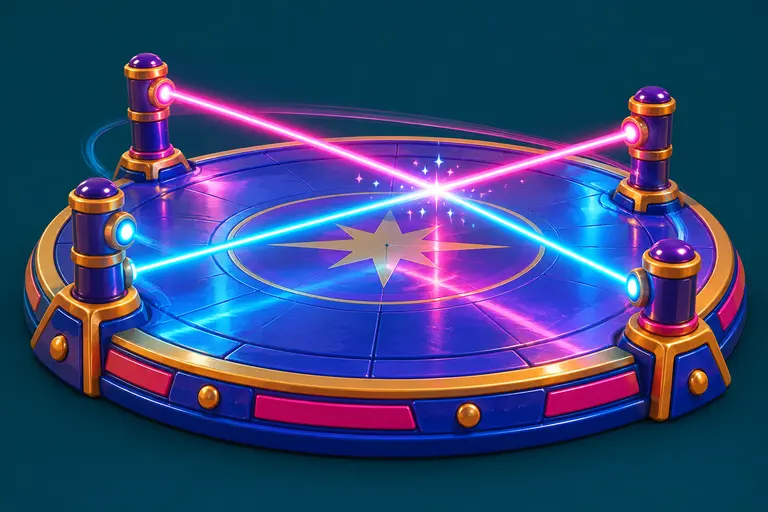
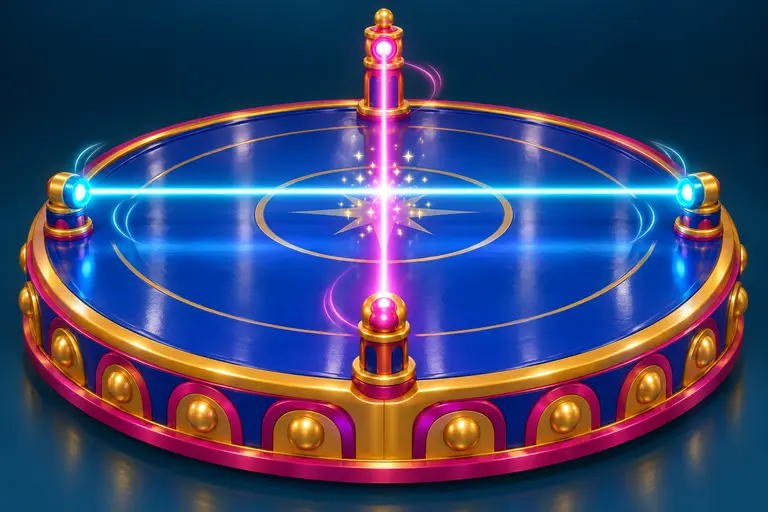
Publish site from stable ae506910 + tinyrts dc3e938c

diff --git a/CLAUDE.md b/CLAUDE.md
@@ -29,6 +29,7 @@ A specific example of "what went wrong" was on 9/17/2026, the agent stopped afte
    * **https for gamepads:** 8442 serves STABLE over https and 8441 serves DEV over https (self-signed cert from `tools/make-dev-cert.sh` in git-ignored `tools/certs/`). Browsers only expose gamepads on secure pages, so give the user the 8442 link when they want to play with a controller; they accept the certificate warning once.
    * `./serve.sh --bg` still exists and serves the working tree on 8400 — do not use it now that the split is in place, or it will take the stable port.
    * **GitHub Pages** (public): https://radgh.github.io/Game-Playground/ — the `gh-pages` branch, built by `tools/publish-pages.sh` from `stable` + TinyRTS's `master` (symlink inlined, tests/research shots left out). After `publish-stable.sh`, run `publish-pages.sh` to update the public site. Never use a path starting with `/` in a page — the site lives under `/Game-Playground/`.
+   * **games.radgh.com** (public, production — `~/claude/docs/rgs.md`): Farhold, Emberveil 2 and Thousandvale are served from that same gh-pages snapshot. After `publish-pages.sh`, run `cd ~/claude/rads-game-server && tools/deploy.sh update playground` (and `update thousandvale` for a Thousandvale release, which restarts the live game server) when Radley wants the public site updated.
 5. **Tests**: Playwright specs in `tests/` (root) or `<experiment>/tests/`, run with `npm test`. Node unit tests (`node --test`) for pure logic.
 6. **When adding an experiment**: create the folder, add ONE ROW to `data/experiments.json` (the home page `index.html` is drawn from it by `js/home.js`; `tests/experiments.test.js` fails if a folder with an `index.html` + `README.md` has no row), add a section to the table below, add a line to `~/claude/docs/playground.md`, add the folder to `ALLOW` in `prototypes/thousandvale/server/static.js` (the Thousandvale game server on 8490/8491 and its public link serve this same home page since 2026-10-13, from that one allow-list; its `tests/H/public-lists.test.js` fails until the folder is there), and write the README. Keep this file's table current.
 7. **Data first**: anything a game would reuse (presets, phrase libraries, part catalogs) goes in JSON or a plain data module, separate from UI code.
@@ -85,7 +86,7 @@ Emberveil uses Chibi 2 humanoids and batched sprites by default; `?renderer=chib
 | `prototypes/lanternfall/` | **Lanternfall** (2026-09-26): side-scrolling pixel action RPG in the drowned chasm-city Vessmere. Falling-sand cell world (9 bytes a cell, 64x64 chunks, sim ~1.6 ms), WebGL2 lights/reflections/bloom, **build-your-own spells** (wick = Flame + Shape + Charms + Knot, compiled to a plan the cells react to), rooms as ASCII block maps + ops + things + wires with a **reachability bot that fails a room** (`tools/room-check.mjs`), 6 seeded room kits, act maps with `@next/@prev/@in` exits, 18 interactables + 10 traps + wiring, 30 monsters, a boss framework (Mother Tallow scripted; bosses 2-6 borrow her script — stand-ins), lamp-post saves (<=64 KB + backup), death purse, Rekindle, plank build mode, skill boards, shops, HUD + 15 menu screens, Lingo/voice/sfx bridges. **Playable title -> ending**: hand-made rooms not in `rooms/index.json` are generated by `standInRoom()` (`js/modes/actmap.js`, `standIn: true`). Pipeline docs in `docs/` (pitch verdict, 10 design pages, ROAST, REVIEW with 39 milestones); **`docs/HANDOFF.md` is the remaining-work list**. `dev/flow.mjs` walks the whole campaign headless | playable 2026-09-26 |
 | `prototypes/wildmarch/` | **Wildmarch** (2026-09-29, round 2 2026-09-30): DESIGN BIBLE ONLY — do not build until the owner approves the docs. An online action RPG with an MMO-style world and a **5-player focus** (only world bosses, towns and trading are bigger), sibling of Farhold (Chibi 2, items/affixes/uniques, perk forest, per-spell talents, voices, Lingo) without space/base-building: one continent, 11 regions banded 1–60, a level/quest feature-unlock ladder, 30 classes × 6 bespoke spells + a signature mechanic, most with a **hybrid role** (mage/warlock/enchanter can tank, pyromancer/necromancer can heal), resources Mana/Momentum/Tempo, **Tab targeting**, 16 five-player dungeons with raid-style telegraphed mechanics on **Normal / Challenge** plus a **Depth** dial, world bosses, **no raids** (parked in `docs/WISHLIST.md`), sockets (gem/jewel/soul/gadget), tags, magic find, special rarities, monster rarities, Harvesting + one crafting profession, Travel Methods, always daylight. `docs/00-OVERVIEW.md` is canon and **§12 holds every round-2 ruling**; `docs/classes/<id>.md` per class; `QUESTIONS.md` open decisions; `WOW-AUDIT.md` is the answered audit. `index.html` is a brainstorm home + Markdown viewer (`js/md.js`, no library); `tools/build-docs-index.mjs` regenerates `docs/index.json` after any doc is added/renamed | docs 2026-09-30 |
 | `prototypes/bannerline/` | **Bannerline** (2026-10-03..04): a sandbox RTS of game MODES over one deterministic lockstep sim (`js/sim/`, purity-scanned, seeded rng, mode registry `js/sim/modes/`). **Line War** (hero lane-wars): 4 races x 12 units, SPAM sends from the Barracks (owner: gold is the only limit — no stock, cooldowns or tier locks; sends leave at once; a full field queues at the gate), 5 Farhold heroes on Chibi 2 (Warrior, Ranger, Pyromancer, Druid with a wolf form, Engineer with 1/2/3 turrets), simple 6-slot stat items bought only standing at the Outfitter (copies each take a slot, rare uniqueEquipped), Drill Yard unit upgrades, Sanctum powers that only land in own/enemy/any field, a Keep that shoots swarms, AI Recruit/Veteran/Commander that differ in decisions, 1v1/2v2/3v3. **Hunters vs Farmers**: generated forest worlds (trails, cliffs, choppable tree walls, briar, hidden hollows), farmers build cookie-clicker style while wandering sheep give them away, hunters search under fog of war, AI both sides. **Campaign** 'Banners of the Vale' (Warrior chapter, 5 missions). Every mode: KB+M and gamepad (ready-up press claims the device; gamepads need the https ports 8442/8441), two-player split screen, online via PeerJS room codes (swappable transport; Cloudflare relay is the upgrade path), lobby -> match -> back to lobby. **Spectator mode** (2026-10-04, both modes): 'Watch AI match' in the Line War lobby / 'Watch the AI play' on the HvF card (and any online machine with no seat) — every seat AI, both sides drawn, HvF fog drawn 30% dark instead of hiding with a Farmers/Hunters/Both/Off choice (`world.useSpectator`, actor materials exempt), F / Shift+F / 1-9 follow a character alternating sides, free pan + 4-step zoom, 1x/2x/4x + pause, side panels per side; `js/ui/spectator.js` + the pure `js/ui/spectate-model.js` (never writes the sim; `tests/spectate.test.js` proves a watched match hashes the same). Never use 'muster'. Balance is deliberately deferred (owner). Read `prototypes/bannerline/README.md` first; parked ideas in `docs/SHELVED.md`; design in `docs/PLAN.md` + `docs/hvf-PLAN.md` (owner rulings in the README override PLAN.md) | done 2026-10-04 |
-| `prototypes/thousandvale/` | **Thousandvale** (2026-10-04 →): an online RPG in one huge walkable world shared by up to a thousand players — Farhold's 30 classes, 180 skills, talents, perks and loot in a province of 2×2 km zones, each with towns, farms, a fort, a multi-floor dungeon, rares, zone events and hidden treasure; parties, guilds, trading, mail, friends, mounts. **A real game server, not static files**: Node + WebSockets + Postgres, authoritative sim in `js/sim/`, pure shared rules in `js/rules/`, client in `js/client/`. **Stable on port 8490, dev on 8491** (never 8400/8401); the public link is a Cloudflare quick tunnel whose address is kept in `data/live-links.json` (`tools/update-live-link.sh` refreshes it) and shown as the home page's separate "Live link" button. Build streams, contracts between them and sudo requests live in `docs/requests.md`; **`docs/PLAN.md` is the spec** (§0 = the rules it never breaks: go anywhere, something new every ~45 s of walking, open every chest), `docs/CHANGELOG.md` the history, `ops/` + `tools/README-servers.md` the server notes, `docs/HOSTING.md` the VPS plan. Publish with `prototypes/thousandvale/tools/publish-thousandvale.sh`. **ON HOLD since 2026-10-13** after ten play-test rounds and a wrap-up (31 classes with the Starcaller, ten professions, economy re-fit): **read `docs/ON-HOLD.md` first when it is resumed** — where it stands, how to pick it up, and everything parked (node rarities, the rest of professions, 11 more provinces, a real-iPhone pass). The live server keeps running | playable, on hold 2026-10-13 |
+| `prototypes/thousandvale/` | **Thousandvale** (2026-10-04 →): an online RPG in one huge walkable world shared by up to a thousand players — Farhold's 30 classes, 180 skills, talents, perks and loot in a province of 2×2 km zones, each with towns, farms, a fort, a multi-floor dungeon, rares, zone events and hidden treasure; parties, guilds, trading, mail, friends, mounts. **A real game server, not static files**: Node + WebSockets + Postgres, authoritative sim in `js/sim/`, pure shared rules in `js/rules/`, client in `js/client/`. **Stable on port 8490, dev on 8491** (never 8400/8401); the public home is **https://thousandvale.games.radgh.com/** on the RGS droplet (`~/claude/docs/rgs.md`), kept in `data/live-links.json` and shown as the home page's separate "Live link" button (the old quick tunnel was stopped 2026-10-14). Build streams, contracts between them and sudo requests live in `docs/requests.md`; **`docs/PLAN.md` is the spec** (§0 = the rules it never breaks: go anywhere, something new every ~45 s of walking, open every chest), `docs/CHANGELOG.md` the history, `ops/` + `tools/README-servers.md` the server notes, `docs/HOSTING.md` the VPS plan. Publish with `prototypes/thousandvale/tools/publish-thousandvale.sh`. **ON HOLD since 2026-10-13** after ten play-test rounds and a wrap-up (31 classes with the Starcaller, ten professions, economy re-fit): **read `docs/ON-HOLD.md` first when it is resumed** — where it stands, how to pick it up, and everything parked (node rarities, the rest of professions, 11 more provinces, a real-iPhone pass). The live server keeps running | playable, on hold 2026-10-13 |
 | `prototypes/tumblefair/` | **Tumblefair** (2026-10-13 →): a couch PARTY game for 2–4 players on phones (the owner's design doc: board game + voted minigames, persistent coins buy costumes, no runtime AI). One page for every device: a phone is a player (sees the game AND holds Thousandvale-style stick/buttons), a TV can join as the big screen. Own Node + ws server, rooms in memory, profiles in JSON: **stable :8480** (published copy, user unit `tumblefair`), **dev :8483** (`tumblefair-dev`), public quick tunnel `tumblefair-tunnel` (`ops/install.sh --url`, key `tumblefair` in data/live-links.json). Publish: `prototypes/tumblefair/tools/publish-tumblefair.sh`. Chibi 2 avatars + `svgPortrait` faces; a minigame is `js/games/<id>/{sim,view}.js` — **read `docs/MINIGAMES.md` first**. Art made with Codex (`assets/inbox` PNG → `tools/art.sh` → `assets/art/*.webp`). Gotcha found: a scrolling panel inside the page blanks the WebGL canvas behind it on phones (Chromium) — never nest scrollers | playable 2026-10-13 |
 | `prototypes/party-quest/` | Party of 4 (library/defaults/custom), race + class without stats, auto-battle with reactive dialog (beasts are creature bodies and only snarl), text-adventure travel with events and a minigame, town NPCs with disposition + deeds + quests + shop, day/night with campfire conversations from memories/relations, Mii 3D cinematic stage, save NPCs to the library | done 2026-09-10 |
 

diff --git a/prototypes/tumblefair/README.md b/prototypes/tumblefair/README.md
@@ -122,3 +122,17 @@ device and the page's last errors. Read them with `node tools/feedback-report.mj
 `npm test` here (node): `tests/room.test.js` plays whole matches with bot phones for 1–4 players in both modes,
 reconnects, late joiners, host handover, the shop, input cleaning; one test file per minigame. Browser checks:
 `tools/look.mjs` (screenshots) and `tests/tumblefair.spec.js` (Playwright, run from the playground root under the lock).
+
+## Not built yet (parked 2026-10-13 when the owner said "wrap up")
+
+From the design document, deliberately left for a later round:
+- **Main modes:** the RPG one-shot (story grammar, callbacks to who did what), branching paths. (Board, Marathon,
+  Endless and Teams are built.)
+- **Host settings in the lobby:** choosing the minigame pool (the server already accepts `opt pool`), vote shortlist
+  size and difficulty are not on the lobby screen yet; only mode, rounds and teams are.
+- **Accessibility options:** low motion, adjustable timers, larger text.
+- **Accounts:** a player is a token in that browser's storage; a new phone or a cleared browser starts fresh (coins
+  and costumes included). No account linking yet.
+- **Bots** to fill empty seats for one- or two-player groups.
+- **More boards** (one starter board), seasonal costumes, achievements.
+- Tuning after real play: Cannonball Catch's difficulty, Meteor Dash's pace, ticket and coin amounts.

diff --git a/prototypes/thousandvale/docs/ON-HOLD.md b/prototypes/thousandvale/docs/ON-HOLD.md
@@ -1,5 +1,15 @@
 # Thousandvale is on hold (2026-10-13)
 
+
+> **Public home since 2026-10-14: https://thousandvale.games.radgh.com/** on the RGS droplet (production; its own
+> database `thousandvale_stable` on the droplet). To ship a change there: publish stable here
+> (`tools/publish-thousandvale.sh` for the LAN server, then the playground's `tools/publish-stable.sh` +
+> `tools/publish-pages.sh`), then `cd ~/claude/rads-game-server && tools/deploy.sh update thousandvale`.
+> Full map: `~/claude/docs/rgs.md`. The quick tunnel described below was STOPPED on 2026-10-14 (unit
+> `thousandvale-quick-tunnel` inactive; the home page's Live link now points at the droplet). The VM's stable server on
+> 8490 still runs for LAN testing — its database is separate from the droplet's. `ops/vps/` and `docs/HOSTING.md` are the older
+> plan and are not what production runs (the droplet's setup lives in the rads-game-server repo).
+
 The owner paused Thousandvale to build another game. This page is the hand-over: where things stand, how to pick
 it up again, and everything that was deliberately **parked** rather than built. Nothing on the parked list is
 forgotten — bring it up when the game is resumed.

diff --git a/prototypes/thousandvale/docs/HOSTING.md b/prototypes/thousandvale/docs/HOSTING.md
@@ -1,5 +1,10 @@
 # Thousandvale — moving the server to a VPS (your own domain, no Cloudflare)
 
+> **Superseded 2026-10-14.** Thousandvale is hosted on the RGS droplet at https://thousandvale.games.radgh.com/, set up
+> from the `~/claude/rads-game-server` repo (Caddy + Postgres + its own copy of the service unit), not by `ops/vps/`.
+> How to deploy: `~/claude/docs/rgs.md`. This page is kept for the reasoning (provider choice, Caddy, limits).
+
+
 Stream H, 2026-10-05. Owner items **P29** (domain) and **P30** (move it off the VM, start small, at most ~5 players at once).
 
 **Short version:** today the game runs on this Ubuntu VM on your Windows PC (LAN only, port 8490). Rent a small
